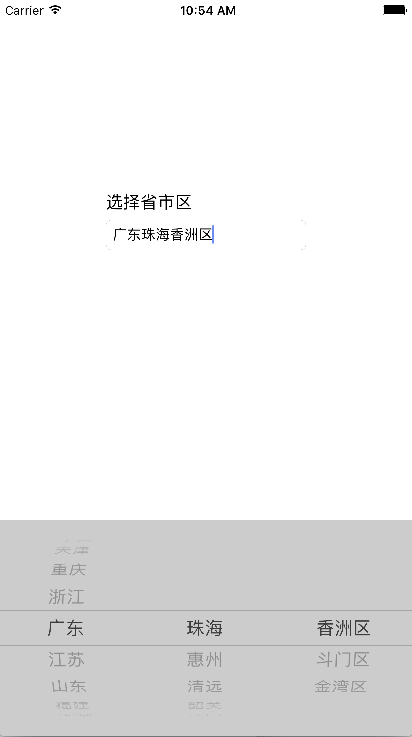
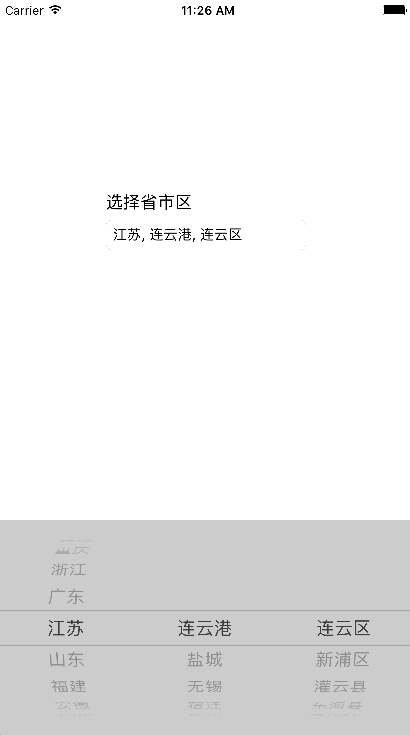
新增'separator'属性，用于调整样式。

diff --git a/Demo/Demo/CZAreaPickerView/CZAreaPickerView.m b/Demo/Demo/CZAreaPickerView/CZAreaPickerView.m
@@ -172,10 +172,10 @@
     
     NSMutableString *areaName = [NSMutableString stringWithFormat:@"%@",province.state];
     if (city) {
-        [areaName appendFormat:@"%@",city.city];
+        [areaName appendFormat:@"%@%@", self.separator, city.city];
     }
     if (districtName) {
-        [areaName appendFormat:@"%@",districtName];
+        [areaName appendFormat:@"%@%@", self.separator, districtName];
     }
     self.areaName = [areaName copy];
     self.textField.text = self.areaName;

diff --git a/Demo/Demo/CZAreaPickerView/CZAreaPickerView.h b/Demo/Demo/CZAreaPickerView/CZAreaPickerView.h
@@ -8,6 +8,7 @@
 
 #import <UIKit/UIKit.h>
 
+
 @interface CZAreaPickerView : UIPickerView
 
 
@@ -15,6 +16,8 @@
 @property (nonatomic,strong) UIFont *font;
 //字体颜色
 @property (nonatomic,strong) UIColor *textColor;
+//分隔符 比如@" ", @",", @";"
+@property (nonatomic,copy) NSString *separator;
 
 //所选择的地区
 @property (nonatomic,copy,readonly) NSString *areaName;

diff --git a/Demo/Demo/ViewController.m b/Demo/Demo/ViewController.m
@@ -26,6 +26,7 @@
     self.areaTextField.inputView = areaPickerView;
     
     //adjust appearance
+//    areaPickerView.separator = @", ";
 //    areaPickerView.font = [UIFont systemFontOfSize:18];
 //    areaPickerView.textColor = [UIColor colorWithWhite:0.1 alpha:1];
 //    areaPickerView.backgroundColor = [UIColor colorWithWhite:0.8 alpha:1];
